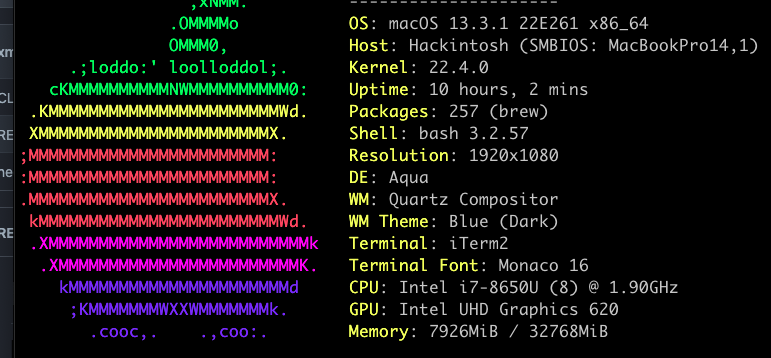
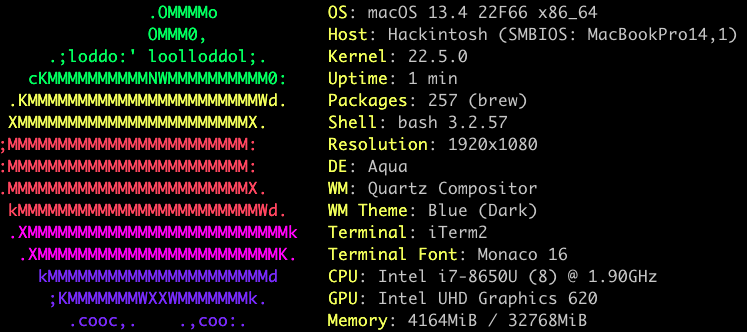
13.4

Changed region(s): [[0.0, 0.0, 0.8929, 1.0], [0.4311, 0.0, 0.9853, 0.4518]]

diff --git a/README.md b/README.md
@@ -17,7 +17,7 @@ Working (compared to other setup I've found):
 
 Tested with:
 * T480 i7-8650U FHD, 32GB RAM, NVME, nvidia MX150 deactivated in DSDT/SSDT
-* macOS 13.3.1 (22E772610a)
+* macOS 13.4 (22F66)
 * Wireless DW1560, NGFF Broadcom BCM4352 802.11ac with PCID [14e4:43b1]
 * Wireless DW1820a : use config.DW1820a.plist
 * Wireless BCM94360NG : use config.BCM94360NG.plist (reported by @opatotto #16)
@@ -53,3 +53,5 @@ put itlwm.kext and IntelBluetoothFirmware.kext
 https://github.com/OpenIntelWireless/itlwm  
 https://github.com/OpenIntelWireless/IntelBluetoothFirmware  
 
+If partial/incremental software update fails:
+$ softwareupdate --fetch-full-installer --full-installer-version 13.4
